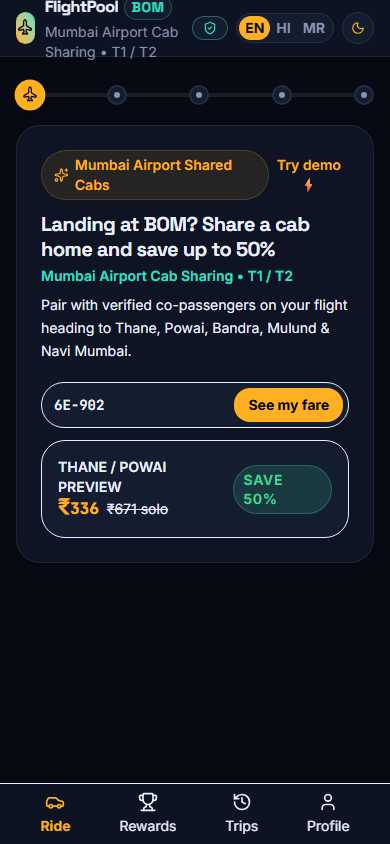
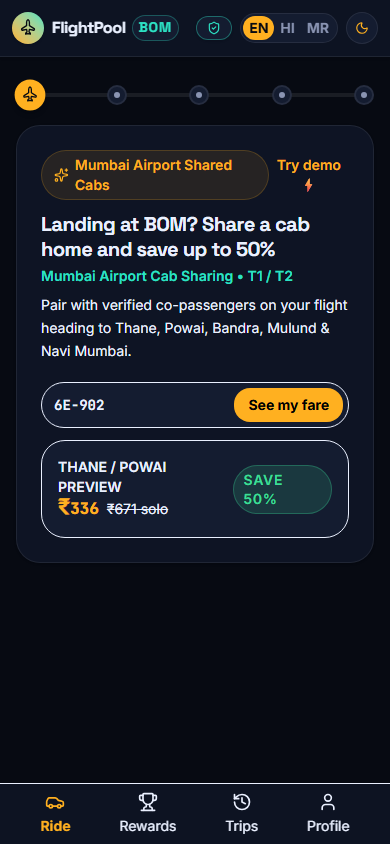
test: add 14px mobile layout and overflow suite with 28 screenshots

diff --git a/tests/e2e/ui-quality.spec.ts b/tests/e2e/ui-quality.spec.ts
@@ -160,4 +160,113 @@ test.describe("UI Quality, Accessibility (WCAG AA) & Screenshots", () => {
     await expect(page.locator("text=840")).not.toBeVisible();
     await expect(page.locator("text=First Landing")).not.toBeVisible();
   });
+
+  // 9. Verify 14px minimum-text rule, overflow, and screenshots across 360px/390px in Dark & Light
+  test("9. 14px minimum-text rule and mobile layout checks on 7 screens at 360px and 390px (Dark & Light)", async ({ page }) => {
+    test.setTimeout(120000);
+    const viewports = [
+      { w: 360, h: 740 },
+      { w: 390, h: 844 },
+    ];
+    const themes = ["dark", "light"] as const;
+
+    for (const { w, h } of viewports) {
+      for (const theme of themes) {
+        await page.setViewportSize({ width: w, height: h });
+        await page.goto("/");
+        await page.waitForLoadState("domcontentloaded");
+
+        // Apply theme
+        await page.evaluate((th) => {
+          if (th === "dark") {
+            document.documentElement.classList.remove("light");
+            document.documentElement.classList.add("dark");
+          } else {
+            document.documentElement.classList.remove("dark");
+            document.documentElement.classList.add("light");
+          }
+        }, theme);
+
+        const checkOverflow = async (screenName: string) => {
+          const bad = await page.evaluate(() => {
+            const list: Array<{ tag: string; className: string; scrollWidth: number; right: number; text: string }> = [];
+            document.querySelectorAll("*").forEach((el) => {
+              const rect = el.getBoundingClientRect();
+              if (el.scrollWidth > window.innerWidth + 1 || rect.right > window.innerWidth + 1) {
+                list.push({
+                  tag: el.tagName,
+                  className: typeof el.className === "string" ? el.className : "",
+                  scrollWidth: el.scrollWidth,
+                  right: rect.right,
+                  text: (el.textContent || "").trim().slice(0, 30),
+                });
+              }
+            });
+            return list;
+          });
+          if (bad.length > 0) {
+            console.log(`[Overflow on ${screenName} at ${w}px ${theme}]:`, JSON.stringify(bad.slice(0, 5)));
+          }
+          expect(bad.length).toBe(0);
+        };
+
+        // --- SCREEN 1: Hero ---
+        await expect(page.locator("header")).toBeVisible();
+        await page.screenshot({ path: `docs/screenshots/hero-${w}-${theme}.png`, fullPage: false });
+        await checkOverflow("Hero");
+
+        // --- SCREEN 2: Flight Picker ---
+        await page.locator("#see-my-fare-btn").click();
+        await expect(page.locator("text=Select Your Flight")).toBeVisible();
+        await page.screenshot({ path: `docs/screenshots/flight-${w}-${theme}.png`, fullPage: false });
+        await checkOverflow("Flight Picker");
+
+        // --- SCREEN 3: Corridor Step & SCREEN 4: Fare Card ---
+        await page.locator("#flight-confirm-btn").click();
+        await expect(page.locator("text=Verify Boarding Pass")).toBeVisible();
+        await page.locator("#verify-pass-btn").click();
+        await expect(page.locator("text=Select Drop-off Corridor")).toBeVisible();
+        await page.screenshot({ path: `docs/screenshots/corridor-${w}-${theme}.png`, fullPage: false });
+
+        // Fare Card
+        const fareCard = page.locator("text=Guaranteed Fare").locator("xpath=ancestor::div[contains(@class, 'rounded-2xl')]").first();
+        if (await fareCard.isVisible()) {
+          await fareCard.screenshot({ path: `docs/screenshots/fare-${w}-${theme}.png` });
+        }
+        await checkOverflow("Corridor & Fare");
+
+        // --- SCREEN 5: Login Step (Passenger Verification) ---
+        await page.locator("#request-ride-btn").click();
+        await expect(page.locator("#login-btn")).toBeVisible();
+        await page.screenshot({ path: `docs/screenshots/login-${w}-${theme}.png`, fullPage: false });
+        await checkOverflow("Login Confirmation");
+
+        // --- SCREEN 6: Pool Screen ---
+        await page.locator("#demo-persona-toggle").first().click();
+        await page.locator("text=Aarav Sharma").first().click();
+        await page.locator("#login-btn").click();
+        await expect(page.locator("text=Scanning Pool Formation...").or(page.locator("text=Active Pool"))).toBeVisible();
+        await page.screenshot({ path: `docs/screenshots/pool-${w}-${theme}.png`, fullPage: false });
+        await checkOverflow("Active Pool");
+
+        // --- SCREEN 7: Rewards Tab ---
+        await page.locator('button:has-text("Rewards"):visible').first().click();
+        await expect(page.locator('[data-testid="demo-data-label"]')).toBeVisible();
+        await page.screenshot({ path: `docs/screenshots/rewards-${w}-${theme}.png`, fullPage: false });
+        await checkOverflow("Rewards Tab");
+
+        // Font size check on Rewards screen: ensure small text classes respect 14px rule
+        const textUnder14Count = await page.evaluate(() => {
+          const els = document.querySelectorAll<HTMLElement>('.text-xs, .text-\\[10px\\], .text-\\[11px\\], .text-\\[12px\\], .text-\\[13px\\], .custom-zone-tooltip');
+          let count = 0;
+          els.forEach((el) => {
+            const fs = parseFloat(window.getComputedStyle(el).fontSize);
+            if (fs < 13.5) count++;
+          });
+          return count;
+        });
+        expect(textUnder14Count).toBe(0);
+      }
+    }
+  });
 });

diff --git a/components/MapPicker.tsx b/components/MapPicker.tsx
@@ -89,7 +89,7 @@ export default function MapPicker({
       const zoneIcon = L.divIcon({
         className: "custom-zone-pin",
         html: `
-          <div style="background:${pinColor}; color:#070A12; width:${pinSize}px; height:${pinSize}px; border-radius:50%; display:flex; align-items:center; justify-content:center; font-size:12px; font-weight:800; box-shadow:0 0 ${isSelected ? "14px #2DE2C4" : "4px rgba(0,0,0,0.5)"}; border:2px solid ${isSelected ? "#FFFFFF" : "#141C30"}; cursor:pointer; transition:transform 0.2s;">
+          <div style="background:${pinColor}; color:#070A12; width:${pinSize}px; height:${pinSize}px; border-radius:50%; display:flex; align-items:center; justify-content:center; font-size:14px; font-weight:800; box-shadow:0 0 ${isSelected ? "14px #2DE2C4" : "4px rgba(0,0,0,0.5)"}; border:2px solid ${isSelected ? "#FFFFFF" : "#141C30"}; cursor:pointer; transition:transform 0.2s;">
             ${isSelected ? "✓" : "●"}
           </div>
         `,
@@ -126,7 +126,7 @@ export default function MapPicker({
         const stopIcon = L.divIcon({
           className: "custom-stop-pin",
           html: `
-            <div style="background:#FFB020; color:#070A12; width:26px; height:26px; border-radius:50%; display:flex; align-items:center; justify-content:center; font-size:11px; font-weight:900; box-shadow:0 0 10px rgba(255,176,32,0.6); border:2px solid #070A12;">
+            <div style="background:#FFB020; color:#070A12; width:26px; height:26px; border-radius:50%; display:flex; align-items:center; justify-content:center; font-size:14px; font-weight:900; box-shadow:0 0 10px rgba(255,176,32,0.6); border:2px solid #070A12;">
               #${stop.order}
             </div>
           `,

diff --git a/components/Navbar.tsx b/components/Navbar.tsx
@@ -42,9 +42,9 @@ export default function Navbar({
 
   return (
     <header className="sticky top-0 z-40 bg-[var(--surface)]/95 backdrop-blur-md text-[var(--text)] border-b border-[var(--surface-border)] shadow-sm transition-colors">
-      <div className="max-w-6xl mx-auto px-4 h-14 flex items-center justify-between">
+      <div className="max-w-6xl mx-auto px-3 sm:px-4 h-14 flex items-center justify-between">
         {/* Brand */}
-        <Link href="/" className="flex items-center gap-2.5 group">
+        <Link href="/" className="flex items-center gap-2 group">
           <div className="w-8 h-8 rounded-xl bg-gradient-to-tr from-[var(--primary)] to-[var(--accent)] flex items-center justify-center text-[var(--primary-text)] shadow-sm group-hover:scale-105 transition-transform">
             <Plane className="w-4 h-4 transform -rotate-45" />
           </div>
@@ -55,7 +55,7 @@ export default function Navbar({
                 BOM
               </span>
             </div>
-            <p className="text-[10px] text-[var(--text-muted)] leading-tight mt-0.5">
+            <p className="text-[10px] text-[var(--text-muted)] leading-tight mt-0.5 hidden sm:block">
               Mumbai Airport Cab Sharing • T1 / T2
             </p>
           </div>

diff --git a/docs/VERIFY_REPORT.md b/docs/VERIFY_REPORT.md
@@ -1,15 +1,15 @@
 # Verification report
 
-Generated: 2026-10-14T07:09:58.051Z
+Generated: 2026-10-14T09:26:07.234Z
 
 | Check | Result | Detail |
 |---|---|---|
 | Preflight (branch, database target, secrets) | PASS |  |
-| Lint | PASS | 10.3s |
-| Type check | PASS | 4.7s |
-| Unit and integration tests | PASS | 2.4s |
-| Production build | PASS | 11.4s |
-| End-to-end tests (Playwright) | PASS | 51.2s |
+| Lint | PASS | 11.5s |
+| Type check | PASS | 3.6s |
+| Unit and integration tests | PASS | 2.7s |
+| Production build | PASS | 11.9s |
+| End-to-end tests (Playwright) | PASS | 69.0s |
 | Test lines deleted vs main | WARN | 10 deleted line(s) - review that no assertion was weakened |
 | Cron schedules are daily-or-slower | PASS |  |
 | No generated files tracked | PASS |  |
